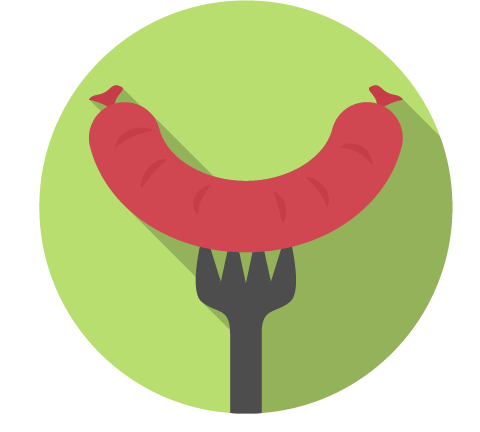
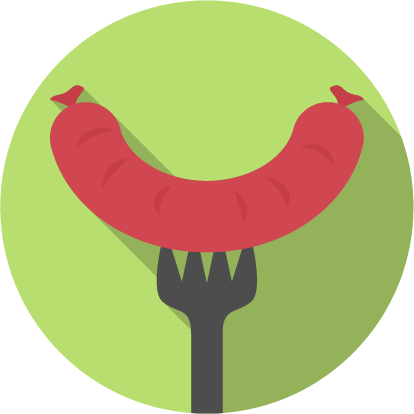
Styled FoodSelection screen
Styled FoodSelection screen

created and styled NumberOfFoodItem

cropped out image transparency

created and styled FoodSelection and FoodSelectionInput

fixed layout when 5+ food items are selected

Styled FoodSelection screen

created and styled NumberOfFoodItem

cropped out image transparency

created and styled FoodSelection and FoodSelectionInput

fixed layout when 5+ food items are selected

navigation start on SignIn

diff --git a/js/scenes/FoodScreen/FoodScreen.js b/js/scenes/FoodScreen/FoodScreen.js
@@ -2,13 +2,37 @@ import React from 'react';
 import {
   Text,
   View,
+  ScrollView,
 } from 'react-native';
 import styles from './styles';
+import { colors } from '../../styles/baseStyles';
+
+import { potluckFood } from '../../constants';
+
+import GuestsConfirmed from '../../components/GuestsConfirmed';
+import NumberOfFoodItem from '../../components/NumberOfFoodItem';
+import FoodSelection from '../../components/FoodSelection';
 
 const FoodScreen = () => (
-    <View>
-      <Text>Welcome to the Account</Text>
+  <View style={styles.container}>
+
+    <View style={styles.guestsConfirmedContainer}>
+      <GuestsConfirmed confirmedGuests={5} expectedGuests={14} />
     </View>
-  );
+
+    <View style={styles.numberOfFoodItemContainer}>
+      <NumberOfFoodItem count={3} foodItemName={potluckFood.APPETIZERS} color={colors.appetizerColor} />
+      <NumberOfFoodItem count={8} foodItemName={potluckFood.MAINS} color={colors.mainCourseColor} />
+      <NumberOfFoodItem count={20} foodItemName={potluckFood.SALADS} color={colors.saladsColor} />
+    </View>
+
+    <ScrollView>
+      <FoodSelection username="Ringo"count={4} foodItemName="Appetizers" color={colors.appetizerColor} />
+      <FoodSelection username="Ringo" count={2} foodItemName="Mains" color={colors.mainCourseColor} />
+      <FoodSelection username="Ringo" count={6} foodItemName="Salads" color={colors.saladsColor} />
+    </ScrollView>
+
+  </View>
+);
 
 export default FoodScreen;

diff --git a/js/components/FoodSelection/styles.js b/js/components/FoodSelection/styles.js
@@ -1,0 +1,63 @@
+import { StyleSheet } from 'react-native';
+import { typography } from './../../styles/baseStyles';
+
+const IMAGE_HEIGHT = 48;
+const IMAGE_WIDTH = IMAGE_HEIGHT;
+const MARGINS = 10;
+const LEFT_BORDER_WIDTH = 3;
+
+export default StyleSheet.create({
+  container: {
+    position: 'relative',
+    alignItems: 'flex-end',
+
+    width: '100%',
+  },
+  image: {
+    position: 'absolute',
+    height: IMAGE_HEIGHT,
+    width: IMAGE_WIDTH,
+    left: MARGINS,
+  },
+  allTextInputContainer: {
+    marginTop: IMAGE_HEIGHT,
+    paddingLeft: (IMAGE_WIDTH / 2) + MARGINS,
+    borderLeftWidth: 3,
+    marginRight: MARGINS,
+    marginLeft: MARGINS + (IMAGE_WIDTH / 2) - (Math.trunc(LEFT_BORDER_WIDTH / 2)),
+  },
+  textInputContainer: {
+    flexDirection: 'row',
+    alignItems: 'center',
+    height: 40,
+    width: '100%',
+    borderWidth: 1,
+    borderRadius: 5,
+  },
+  inputTextContainer: {
+    height: '100%',
+    width: '60%',
+    borderRightWidth: 1,
+    borderRadius: 5,
+  },
+  inputText: {
+    height: '100%',
+    width: '100%',
+    textAlign: 'center',
+    fontSize: typography.baseFontSize,
+    fontWeight: 'bold',
+    color: '#fff',
+  },
+  usernameTextContainer: {
+    height: '100%',
+    width: '40%',
+    alignItems: 'center',
+    justifyContent: 'center',
+
+  },
+  usernameText: {
+    fontSize: typography.baseFontSize,
+  }
+
+});
+

diff --git a/js/components/FoodSelection/index.js b/js/components/FoodSelection/index.js
@@ -1,0 +1,36 @@
+import React from 'react';
+import { View, TextInput, Text, Image } from 'react-native';
+
+import styles from './styles';
+import { potluckFood } from '../../constants';
+
+import FoodSelectionInput from '../FoodSelectionInput';
+/*
+        <View key={i} style={[styles.textInputContainer, (i < count - 1) && { marginBottom: 10 }]}>
+          <View style={styles.inputTextContainer}>
+            <TextInput style={[styles.inputText, { backgroundColor: color }]} />
+          </View>
+          <View style={styles.usernameTextContainer}>
+            <Text style={[styles.usernameText, { color }]}>{username}</Text>
+          </View>
+        </View>*/
+
+const FoodSelection = ({ count, foodItemName, color, username }) => (
+  <View style={styles.container}>
+    <Image style={styles.image} source={potluckFood.properties[foodItemName].imageSource} />
+
+    <View style={[styles.allTextInputContainer, { borderLeftColor: color }]}>
+      {[...Array(count)].map((x, i) => (
+        <FoodSelectionInput key={i}
+          lastItem={(i >= count - 1)}
+          color={color}
+          username={username}
+        />
+      )
+      )}
+    </View>
+
+  </View >
+);
+
+export default FoodSelection;

diff --git a/js/components/FoodSelectionInput/styles.js b/js/components/FoodSelectionInput/styles.js
@@ -1,0 +1,40 @@
+import { StyleSheet } from 'react-native';
+import { typography } from './../../styles/baseStyles';
+
+export default StyleSheet.create({
+  textInputContainer: {
+    flexDirection: 'row',
+    alignItems: 'center',
+    height: 40,
+    width: '100%',
+    borderWidth: 1,
+    borderRadius: 5,
+    marginBottom: 10,
+  },
+  inputTextContainer: {
+    height: '100%',
+    width: '60%',
+    borderRightWidth: 1,
+    borderRadius: 5,
+  },
+  inputText: {
+    height: '100%',
+    width: '100%',
+    textAlign: 'center',
+    fontSize: typography.baseFontSize,
+    fontWeight: 'bold',
+    color: '#fff',
+  },
+  usernameTextContainer: {
+    height: '100%',
+    width: '40%',
+    alignItems: 'center',
+    justifyContent: 'center',
+
+  },
+  usernameText: {
+    fontSize: typography.baseFontSize,
+  }
+
+});
+

diff --git a/js/components/GuestsConfirmed/styles.js b/js/components/GuestsConfirmed/styles.js
@@ -1,0 +1,30 @@
+import { StyleSheet } from 'react-native';
+import { typography } from './../../styles/baseStyles';
+
+export default StyleSheet.create({
+  container: {
+    flexDirection: 'row',
+    justifyContent: 'center',
+    alignItems: 'flex-end',
+  },
+  confirmedGuestsText: {
+    fontFamily: typography.fontMain,
+    fontSize: typography.headerFontSize * 2.5,
+    marginBottom: -5
+  },
+  expectedGuestsContainer: {
+    flexDirection: 'row',
+    alignItems: 'flex-end',
+
+  },
+  expectedGuestsText: {
+    fontFamily: typography.fontMain,
+    fontSize: 12,
+    color: '#555',
+  },
+  endText: {
+    marginLeft: 10
+  }
+
+});
+

diff --git a/js/components/FoodSelectionInput/index.js b/js/components/FoodSelectionInput/index.js
@@ -1,0 +1,18 @@
+import React from 'react';
+import { View, TextInput, Text } from 'react-native';
+
+import styles from './styles';
+
+
+const FoodSelectionInput = ({ count, foodItemName, color, username, lastItem }) => (
+    <View style={[styles.textInputContainer, lastItem && { marginBottom: 0 }]}>
+      <View style={styles.inputTextContainer}>
+        <TextInput style={[styles.inputText, { backgroundColor: color }]} />
+      </View>
+      <View style={styles.usernameTextContainer}>
+        <Text style={[styles.usernameText, { color }]}>{username}</Text>
+      </View>
+    </View>
+);
+
+export default FoodSelectionInput;

diff --git a/js/components/GuestsConfirmed/index.js b/js/components/GuestsConfirmed/index.js
@@ -1,0 +1,22 @@
+import React from 'react';
+import { View, Text } from 'react-native';
+
+import styles from './styles';
+
+const GuestsConfirmed = ({ confirmedGuests, expectedGuests }) => (
+  <View style={styles.container}>
+    <Text style={styles.confirmedGuestsText}>
+      {confirmedGuests}
+    </Text>
+    <View style={styles.expectedGuestsContainer}>
+      <Text style={styles.expectedGuestsText}>
+        /{expectedGuests}
+      </Text>
+      <Text style={[styles.expectedGuestsText, styles.endText]}>
+        Confirmed{'\n'}Guests
+      </Text>
+    </View>
+  </View>
+);
+
+export default GuestsConfirmed;

diff --git a/js/components/NumberOfFoodItem/styles.js b/js/components/NumberOfFoodItem/styles.js
@@ -1,0 +1,28 @@
+import { StyleSheet } from 'react-native';
+import { typography } from './../../styles/baseStyles';
+
+export default StyleSheet.create({
+  container: {
+    justifyContent: 'center',
+    alignItems: 'center',
+    width: '20%',
+  },
+  countContainer: {
+    alignItems: 'center',
+    justifyContent: 'center',
+    height: 26,
+    width: 26,
+    borderRadius: 13,
+    backgroundColor: '#E1E1E1',
+    marginBottom: 5,
+    marginTop: 10,
+  },
+  countText: {
+    fontFamily: typography.fontMain,
+  },
+  foodItemNameText: {
+    fontFamily: typography.fontMain,
+    fontWeight: 'bold',
+  }
+});
+

diff --git a/js/scenes/FoodScreen/styles.js b/js/scenes/FoodScreen/styles.js
@@ -1,0 +1,21 @@
+import { StyleSheet } from 'react-native';
+
+export default StyleSheet.create({
+  container: {
+    backgroundColor: '#FFF',
+    height: '100%',
+  },
+  guestsConfirmedContainer: {
+    marginBottom: 10,
+  },
+  numberOfFoodItemContainer: {
+    flexDirection: 'row',
+    justifyContent: 'center',
+    alignItems: 'flex-start',
+    flexWrap: 'wrap',
+    paddingBottom: 5,
+    borderBottomWidth: 1,
+    borderBottomColor: '#E1E1E1',
+    marginBottom: 20,
+  }
+});

diff --git a/js/components/NumberOfFoodItem/index.js b/js/components/NumberOfFoodItem/index.js
@@ -1,0 +1,19 @@
+import React from 'react';
+import { View, Text } from 'react-native';
+
+import styles from './styles';
+
+const NumberOfFoodItem = ({ count, foodItemName, color }) => (
+  <View style={styles.container}>
+    <View style={styles.countContainer}>
+      <Text style={styles.countText}>{count}</Text>
+    </View>
+
+    <Text style={[styles.foodItemNameText, { color }]}>
+      {foodItemName}
+    </Text>
+
+  </View >
+);
+
+export default NumberOfFoodItem;

diff --git a/js/scenes/NumberOfGuestScreen/index.js b/js/scenes/NumberOfGuestScreen/index.js
@@ -1,5 +1,5 @@
-import NumberOfGuestScreenContainer from './NumberOfGuestScreenContainer'
-import NumberOfGuestScreen from './NumberOfGuestScreen'
+import NumberOfGuestScreenContainer from './NumberOfGuestScreenContainer';
+import NumberOfGuestScreen from './NumberOfGuestScreen';
 
-export default NumberOfGuestScreenContainer
-export { NumberOfGuestScreen }
+export default NumberOfGuestScreenContainer;
+export { NumberOfGuestScreen };
